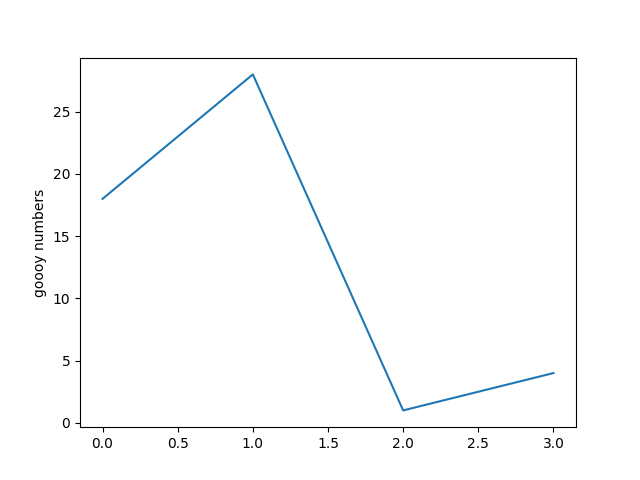
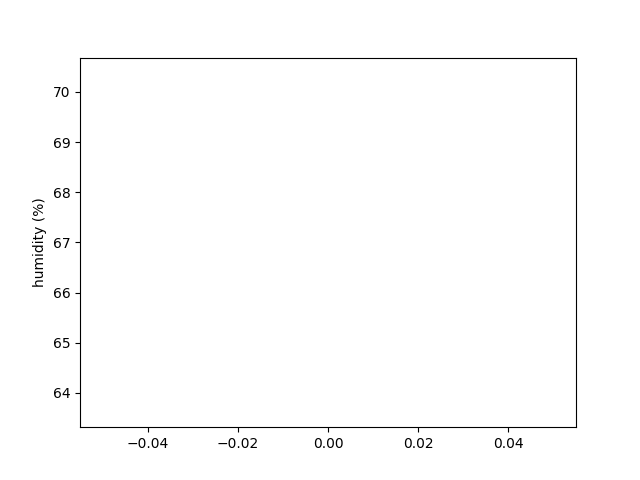
date format

diff --git a/runInterface.py b/runInterface.py
@@ -1,33 +1,49 @@
 #!/usr/bin/env python3
 import os
 import sqlite3 as lite
-from flask import Flask, request, render_template, send_file
+from datetime import datetime as dt
+from flask import Flask, request, render_template
+import numpy as np
 import matplotlib
 # dont use windows backend by default
 matplotlib.use('Agg')
 from matplotlib import pyplot as plt 
-import base64, io
 
 app = Flask(__name__, template_folder='views')
+dbname = '/home/pi/SenseARaspberryPi/db/database.bieber'
 
 @app.route("/")
 def plotTemp():
-    conn=lite.connect('/home/pi/SenseARaspberryPi/db/database.bieber')
+    conn=lite.connect(dbname)
     curs=conn.cursor()
-    conn.close()
+    curs.execute("SELECT temp FROM SenseHat_data")
+    tempData = curs.fetchall()
+    curs.execute("SELECT timestamp FROM SenseHat_data")
+    dates = curs.fetchall()
+    xdates = [dt.strptime('{2:7}'.format(str(d)),'%d%m%y') for d in dates]
 
     plt.figure()
-    plt.plot([11,22, 88, 23])
-    plt.ylabel('new numbers')
+    plt.gcf().autofmt_xdate()
+    plt.grid()
+    plt.plot(xdates,tempData)
+    plt.ylabel('Temperature (C)')
+    plt.xlabel('Date')
     plt.savefig('static/temp.png')
+    conn.close()
     return render_template('temp.html', temp = "static/temp.png")
 
 @app.route("/humid")
 def plotHumid():
+    conn=lite.connect(dbname)
+    curs=conn.cursor()
+    curs.execute("SELECT humidity FROM SenseHat_data")
+    humidData = curs.fetchall()
+
     plt.figure()
-    plt.plot([18,28,1,4])
-    plt.ylabel('goooy numbers')
+    plt.plot(humidData)
+    plt.ylabel('humidity (%)')
     plt.savefig('static/humid.png')
+    #mayeb try as an array
     return render_template('humid.html', humid = "static/humid.png")
     
 

diff --git a/partOne/create_bieber.py b/partOne/create_bieber.py
@@ -10,11 +10,9 @@ with con:
     cur.execute("DROP TABLE IF EXISTS SENSEHAT_data")
     cur.execute("CREATE TABLE SENSEHAT_data(timestamp DATETIME, temp REAL, humidity REAL)")
     #test input
-    time = datetime.now().strftime("%D")
+    time = datetime.now().strftime("%d%m%y")
     print(time)
-    cur.execute("INSERT INTO SENSEHAT_data values(?, ?, ?)", ('08/14/18', 34, 55))
-    cur.execute("INSERT INTO SENSEHAT_data values(?, ?, ?)", ('08/15/18', 12, 35))
-    cur.execute("INSERT INTO SENSEHAT_data values(?, ?, ?)",  ('08/16/18', 18, 41))
-    cur.execute("INSERT INTO SENSEHAT_data values(?, ?, ?)",  ('08/17/18', 22, 48))
-    cur.execute("INSERT INTO SENSEHAT_data values(?, ?, ?)",  ('08/17/18', 26, 67))
+    print(len(time))
+    print(type(time))
+
     cur.execute("INSERT INTO SENSEHAT_data values(?, ?, ?)",  (time, 26, 67))

diff --git a/partOne/partOne.py b/partOne/partOne.py
@@ -34,7 +34,7 @@ def getSenseHatData():
     if temp_calibrated is not None and humidity is not None:
         temp_calibrated = round(temp_calibrated, 2)
         humidity = round(humidity, 2)
-        time = datetime.now().strftime("%D")
+        time = datetime.now().strftime("%d%m%y")
         logData (temp_calibrated, humidity, time)
 
 # log sensor data on database
